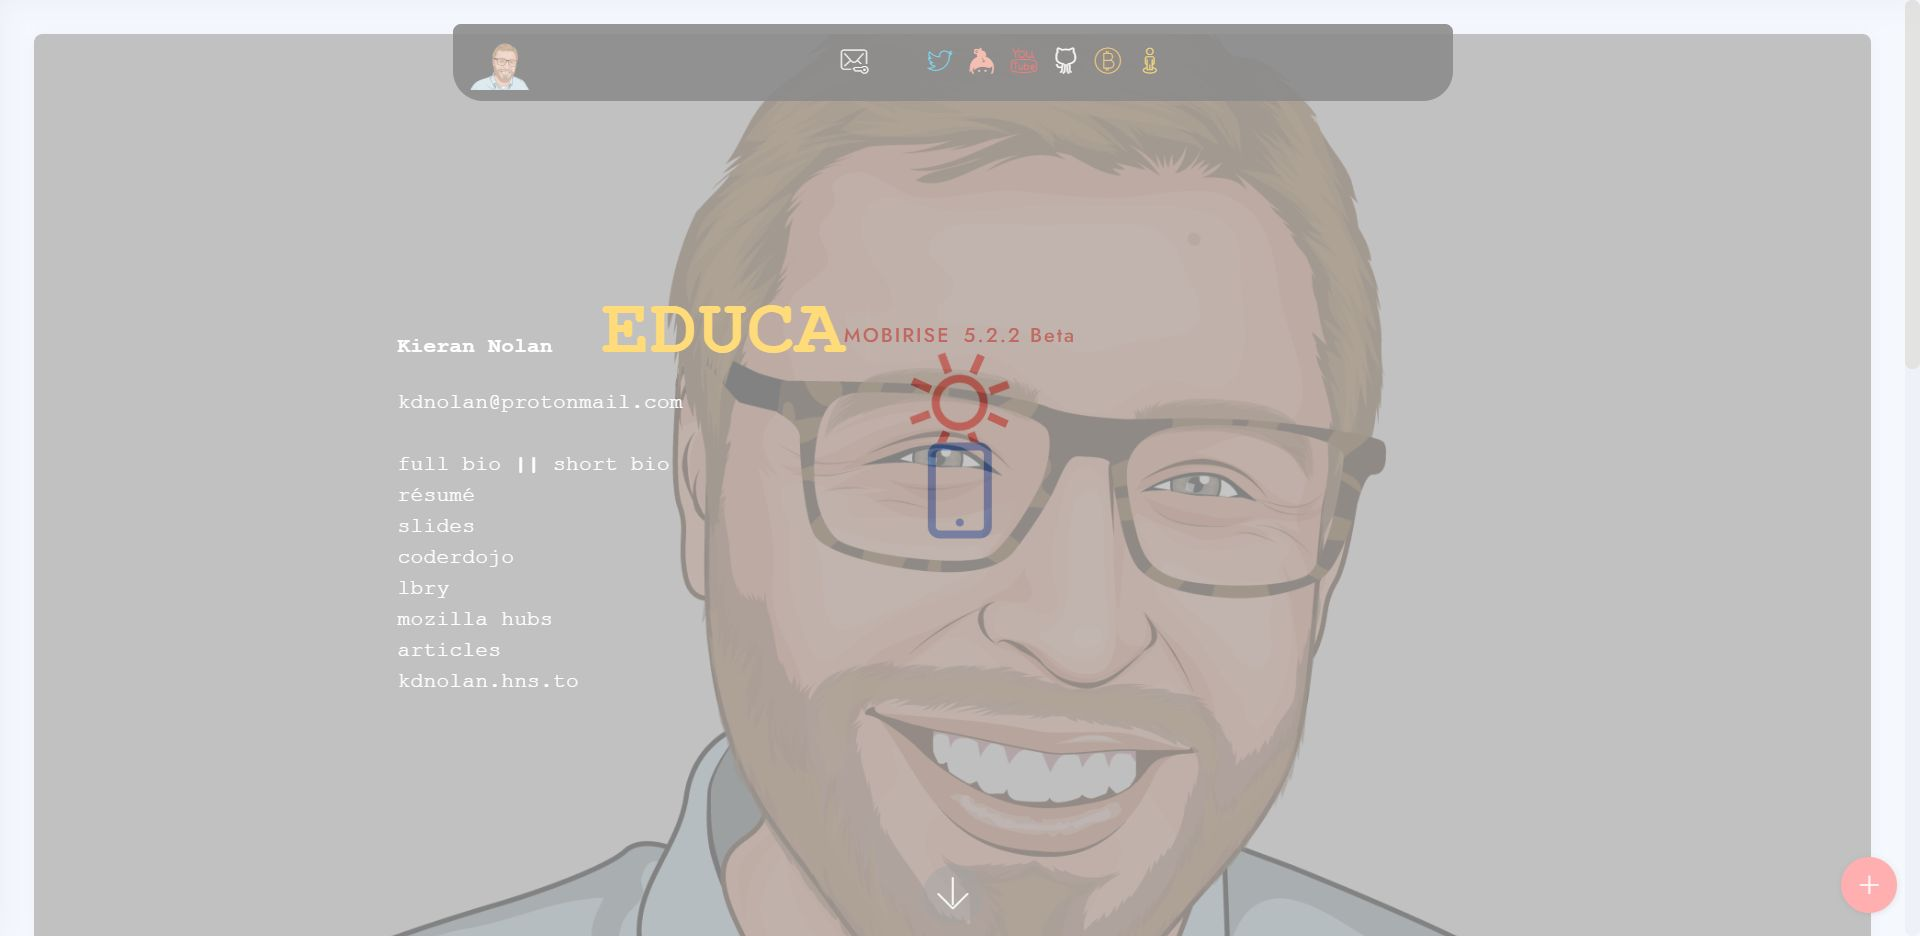
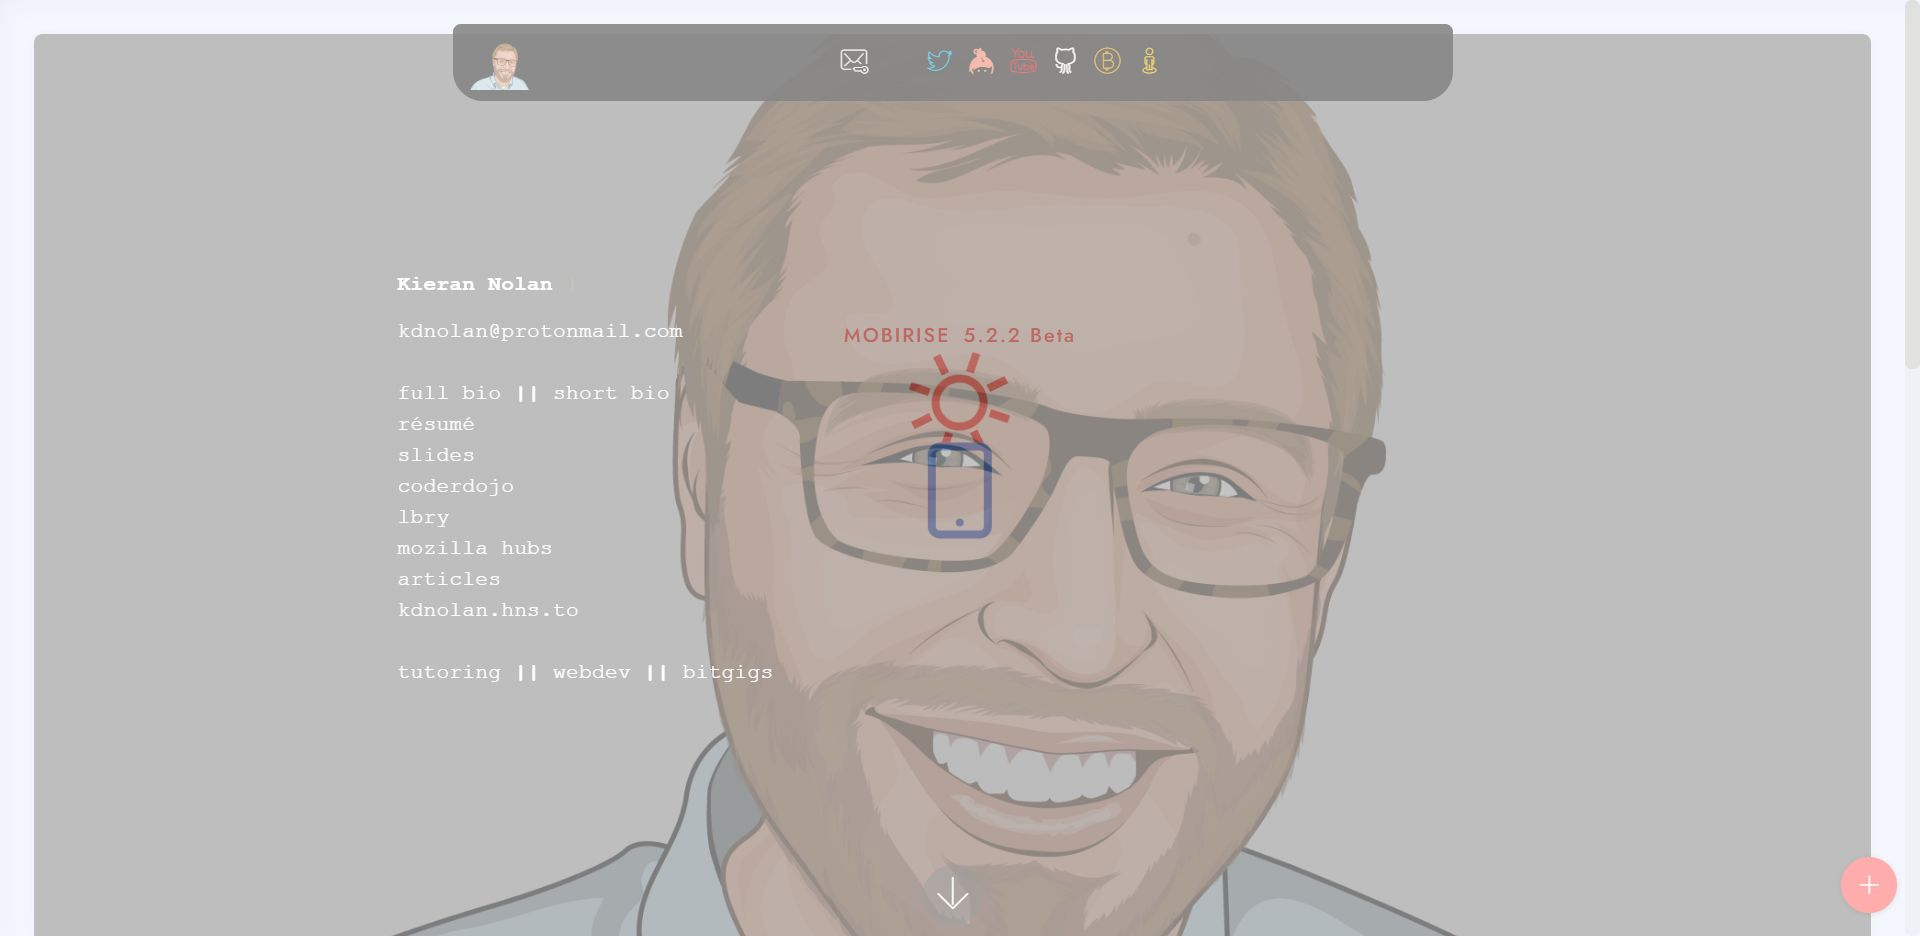
music
music

diff --git a/index.html b/index.html
@@ -105,7 +105,7 @@
                     </span>
                 </div>
                 <p class="mbr-section-text mbr-fonts-style display-5">
-                    <a href="mailto:kdnolan@protonmail.com" class="text-primary"></a><a href="https://www.fiverr.com/s2/447a56137a" class="text-primary" target="_blank">kdnolan@protonmail.com</a><br><br><strong><a href="https://medium.com/@kdnolan/bio-kieran-nolan-e24a2593ffaa?" class="text-primary" target="_blank">full bio</a> ||&nbsp;</strong><strong><a href="https://medium.com/@kdnolan/the-educator-hot-list-2019-f6c170d96f8d" class="text-primary" target="_blank">short bio</a></strong><br><a href="https://docs.google.com/document/d/e/2PACX-1vSJ3lUSlqyzEbDo2WYMuaCoPWlIEa_Dltg2NgMmwRnxJEwSH9Kfty-wHGQbAZDOrDtfyUymXv8UziGx/pub" class="text-primary" target="_blank">résumé</a><br><a href="https://docs.google.com/presentation/d/17VgbEdmkydBphCaPF-fNZWcem_wUsqc7-zxOej7hY0I/edit?usp=sharing" class="text-primary" target="_blank">slides</a><br><a href="https://zen.coderdojo.com/dojos/au/victoria/8-9-1-0-5-carlton-road-dandenong-north-victoria-australia-3-17-5/dandenong-melbourne-wooranna-park-primary-school" class="text-primary" target="_blank">coderdojo</a><br><a href="https://open.lbry.com/@kdnolan:f" class="text-primary" target="_blank">lbry</a><br><strong><a href="VR.html" class="text-primary">mozilla hubs</a></strong><br><strong><a href="https://keybase.pub/kdnolan/articles/" class="text-primary" target="_blank">articles</a></strong><br><strong><a href="http://kdnolan.hns.to" class="text-primary" target="_blank">kdnolan.hns.to</a></strong><br><br><a href="page2.html" class="text-primary">tutoring </a><strong>||</strong> <a href="https://www.fiverr.com/kierandnolan/build-and-host-a-website-with-pwa-integration" class="text-primary" target="_blank">webdev </a><strong>|| <a href="http://bitgigs.com/?p=11683#" class="text-primary" target="_blank">bitgigs</a></strong><a href="http://kdnolan.hns.to" class="text-primary" target="_blank" style=""><br></a><br></p>
+                    <a href="mailto:kdnolan@protonmail.com" class="text-primary"></a><a href="https://www.fiverr.com/s2/447a56137a" class="text-primary" target="_blank">kdnolan@protonmail.com</a><br><br><strong><a href="https://medium.com/@kdnolan/bio-kieran-nolan-e24a2593ffaa?" class="text-primary" target="_blank">full bio</a> ||&nbsp;</strong><strong><a href="https://medium.com/@kdnolan/the-educator-hot-list-2019-f6c170d96f8d" class="text-primary" target="_blank">short bio</a></strong><br><a href="https://docs.google.com/document/d/e/2PACX-1vSJ3lUSlqyzEbDo2WYMuaCoPWlIEa_Dltg2NgMmwRnxJEwSH9Kfty-wHGQbAZDOrDtfyUymXv8UziGx/pub" class="text-primary" target="_blank">résumé</a><br><a href="https://docs.google.com/presentation/d/17VgbEdmkydBphCaPF-fNZWcem_wUsqc7-zxOej7hY0I/edit?usp=sharing" class="text-primary" target="_blank">slides</a><br><a href="https://zen.coderdojo.com/dojos/au/victoria/8-9-1-0-5-carlton-road-dandenong-north-victoria-australia-3-17-5/dandenong-melbourne-wooranna-park-primary-school" class="text-primary" target="_blank">coderdojo</a><br><a href="https://open.lbry.com/@kdnolan:f" class="text-primary" target="_blank">lbry</a><br><strong><a href="VR.html" class="text-primary">mozilla hubs</a></strong><br><strong><a href="https://keybase.pub/kdnolan/articles/" class="text-primary" target="_blank">articles</a></strong><br><strong><a href="http://kdnolan.hns.to" class="text-primary" target="_blank">kdnolan.hns.to</a></strong><br><br><a href="page2.html" class="text-primary">tutoring </a><strong>||</strong> <a href="https://www.fiverr.com/kierandnolan/build-and-host-a-website-with-pwa-integration" class="text-primary" target="_blank">webdev </a><strong>|| <a href="http://bitgigs.com/?p=11683#" class="text-primary" target="_blank">bitgigs</a></strong><br><br><strong><a href="http://rocketshoes.io" class="text-primary" target="_blank">rocketshoes.io<br></a></strong><a href="http://kdnolan.hns.to" class="text-primary" target="_blank" style=""><br></a><br></p>
                 
             </div>
         </div>

diff --git a/music.html b/music.html
@@ -1,0 +1,44 @@
+<!DOCTYPE html>
+<html  >
+<head>
+  
+  <meta charset="UTF-8">
+  <meta http-equiv="X-UA-Compatible" content="IE=edge">
+  
+  <meta name="viewport" content="width=device-width, initial-scale=1, minimum-scale=1">
+  <link rel="shortcut icon" href="assets/images/photo-20160315-8003902-90x73.png" type="image/x-icon">
+  <meta name="description" content="">
+  
+  
+  <title>Music</title>
+  <link rel="stylesheet" href="assets/tether/tether.min.css">
+  <link rel="stylesheet" href="assets/bootstrap/css/bootstrap.min.css">
+  <link rel="stylesheet" href="assets/bootstrap/css/bootstrap-grid.min.css">
+  <link rel="stylesheet" href="assets/bootstrap/css/bootstrap-reboot.min.css">
+  <link rel="stylesheet" href="assets/animatecss/animate.min.css">
+    <link rel="stylesheet" href="assets/theme/css/style.css">
+  <link rel="preload" as="style" href="assets/mobirise/css/mbr-additional.css"><link rel="stylesheet" href="assets/mobirise/css/mbr-additional.css" type="text/css">
+  
+  <script src="assets/web/assets/lazyload/lazyload.js"></script>
+
+  
+  
+</head>
+<body>
+  
+  <div id="custom-html-16"><iframe width="100%" height="450" scrolling="no" frameborder="no" allow="autoplay" src="https://w.soundcloud.com/player/?url=https%3A//api.soundcloud.com/playlists/1300291450&amp;color=%23ff5500&amp;auto_play=false&amp;hide_related=false&amp;show_comments=true&amp;show_user=true&amp;show_reposts=false&amp;show_teaser=true"></iframe><div style="font-size: 10px; color: #cccccc;line-break: anywhere;word-break: normal;overflow: hidden;white-space: nowrap;text-overflow: ellipsis; font-family: Interstate,Lucida Grande,Lucida Sans Unicode,Lucida Sans,Garuda,Verdana,Tahoma,sans-serif;font-weight: 100;"><a href="https://soundcloud.com/kdnolan" title="kdnolan" target="_blank" style="color: #cccccc; text-decoration: none;">kdnolan</a> · <a href="https://soundcloud.com/kdnolan/sets/kdnolan" title="kdnolan" target="_blank" style="color: #cccccc; text-decoration: none;">kdnolan</a></div></div>
+
+
+<script src="assets/web/assets/jquery/jquery.min.js"></script>
+  <script src="assets/popper/popper.min.js"></script>
+  <script src="assets/tether/tether.min.js"></script>
+  <script src="assets/bootstrap/js/bootstrap.min.js"></script>
+  <script src="assets/smoothscroll/smooth-scroll.js"></script>
+  <script src="assets/viewportchecker/jquery.viewportchecker.js"></script>
+        <script src="assets/theme/js/script.js"></script>
+    
+  
+ <div id="scrollToTop" class="scrollToTop mbr-arrow-up"><a style="text-align: center;"><i class="mbr-arrow-up-icon mbr-arrow-up-icon-cm cm-icon cm-icon-smallarrow-up"></i></a></div>
+    <input name="animation" type="hidden">
+  </body>
+</html>

diff --git a/page4.html b/page4.html
@@ -1,0 +1,44 @@
+<!DOCTYPE html>
+<html  >
+<head>
+  
+  <meta charset="UTF-8">
+  <meta http-equiv="X-UA-Compatible" content="IE=edge">
+  
+  <meta name="viewport" content="width=device-width, initial-scale=1, minimum-scale=1">
+  <link rel="shortcut icon" href="assets/images/photo-20160315-8003902-90x73.png" type="image/x-icon">
+  <meta name="description" content="">
+  
+  
+  <title>Music</title>
+  <link rel="stylesheet" href="assets/tether/tether.min.css">
+  <link rel="stylesheet" href="assets/bootstrap/css/bootstrap.min.css">
+  <link rel="stylesheet" href="assets/bootstrap/css/bootstrap-grid.min.css">
+  <link rel="stylesheet" href="assets/bootstrap/css/bootstrap-reboot.min.css">
+  <link rel="stylesheet" href="assets/animatecss/animate.min.css">
+    <link rel="stylesheet" href="assets/theme/css/style.css">
+  <link rel="preload" as="style" href="assets/mobirise/css/mbr-additional.css"><link rel="stylesheet" href="assets/mobirise/css/mbr-additional.css" type="text/css">
+  
+  <script src="assets/web/assets/lazyload/lazyload.js"></script>
+
+  
+  
+</head>
+<body>
+  
+  <div id="custom-html-16"><iframe width="100%" height="450" scrolling="no" frameborder="no" allow="autoplay" src="https://w.soundcloud.com/player/?url=https%3A//api.soundcloud.com/playlists/1300291450&amp;color=%23ff5500&amp;auto_play=false&amp;hide_related=false&amp;show_comments=true&amp;show_user=true&amp;show_reposts=false&amp;show_teaser=true"></iframe><div style="font-size: 10px; color: #cccccc;line-break: anywhere;word-break: normal;overflow: hidden;white-space: nowrap;text-overflow: ellipsis; font-family: Interstate,Lucida Grande,Lucida Sans Unicode,Lucida Sans,Garuda,Verdana,Tahoma,sans-serif;font-weight: 100;"><a href="https://soundcloud.com/kdnolan" title="kdnolan" target="_blank" style="color: #cccccc; text-decoration: none;">kdnolan</a> · <a href="https://soundcloud.com/kdnolan/sets/kdnolan" title="kdnolan" target="_blank" style="color: #cccccc; text-decoration: none;">kdnolan</a></div></div>
+
+
+<script src="assets/web/assets/jquery/jquery.min.js"></script>
+  <script src="assets/popper/popper.min.js"></script>
+  <script src="assets/tether/tether.min.js"></script>
+  <script src="assets/bootstrap/js/bootstrap.min.js"></script>
+  <script src="assets/smoothscroll/smooth-scroll.js"></script>
+  <script src="assets/viewportchecker/jquery.viewportchecker.js"></script>
+        <script src="assets/theme/js/script.js"></script>
+    
+  
+ <div id="scrollToTop" class="scrollToTop mbr-arrow-up"><a style="text-align: center;"><i class="mbr-arrow-up-icon mbr-arrow-up-icon-cm cm-icon cm-icon-smallarrow-up"></i></a></div>
+    <input name="animation" type="hidden">
+  </body>
+</html>

diff --git a/assets/mobirise/css/mbr-additional.css b/assets/mobirise/css/mbr-additional.css
@@ -2405,3 +2405,15 @@ section.lazy-placeholder:after {
     font-size: 4.25rem;
   }
 }
+#custom-html-16 {
+  /* Type valid CSS here */
+}
+#custom-html-16 div {
+  padding: 80px 0;
+  color: #777;
+  text-align: center;
+}
+#custom-html-16 p {
+  font-size: 60px;
+  color: #777;
+}
